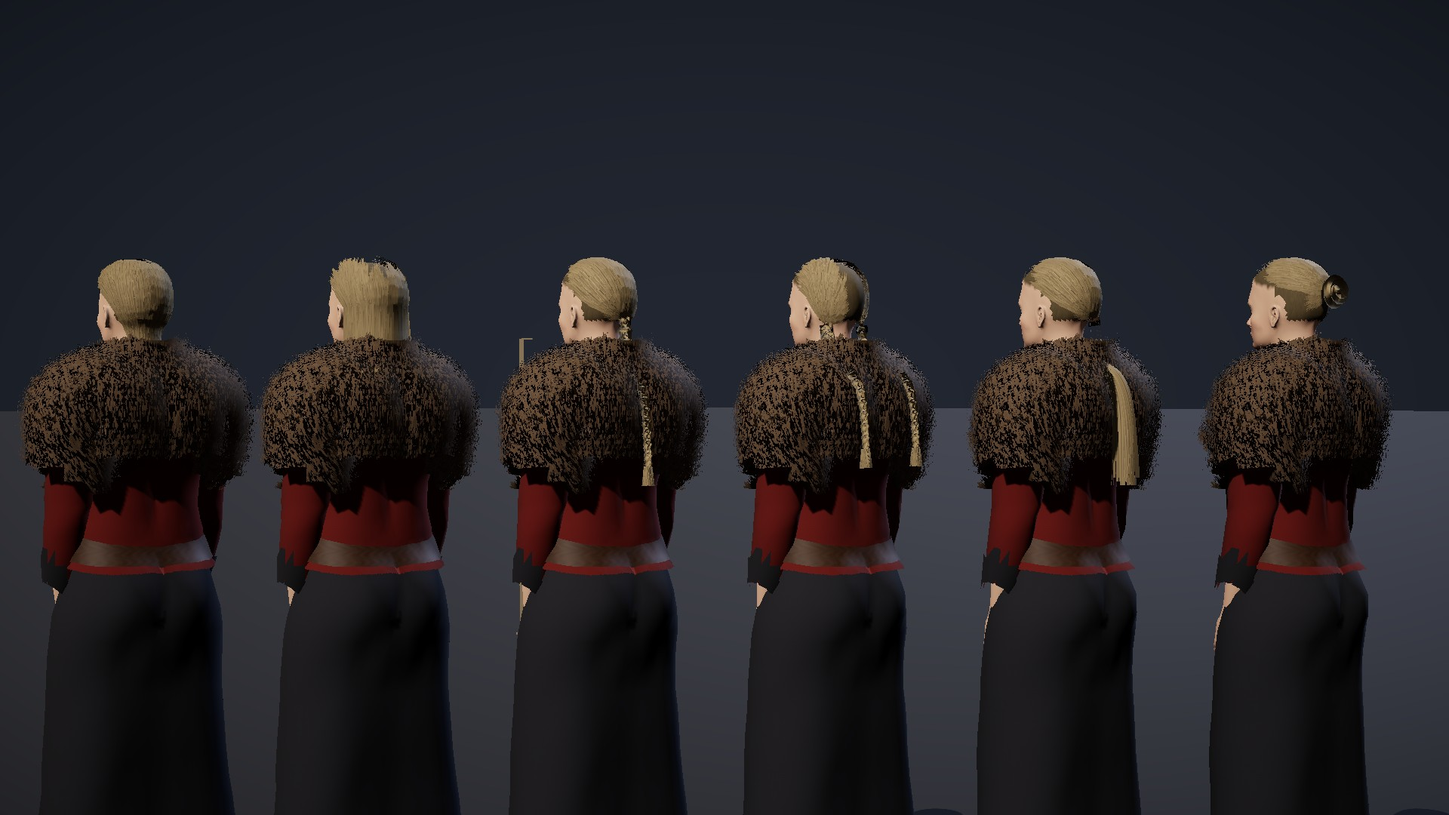
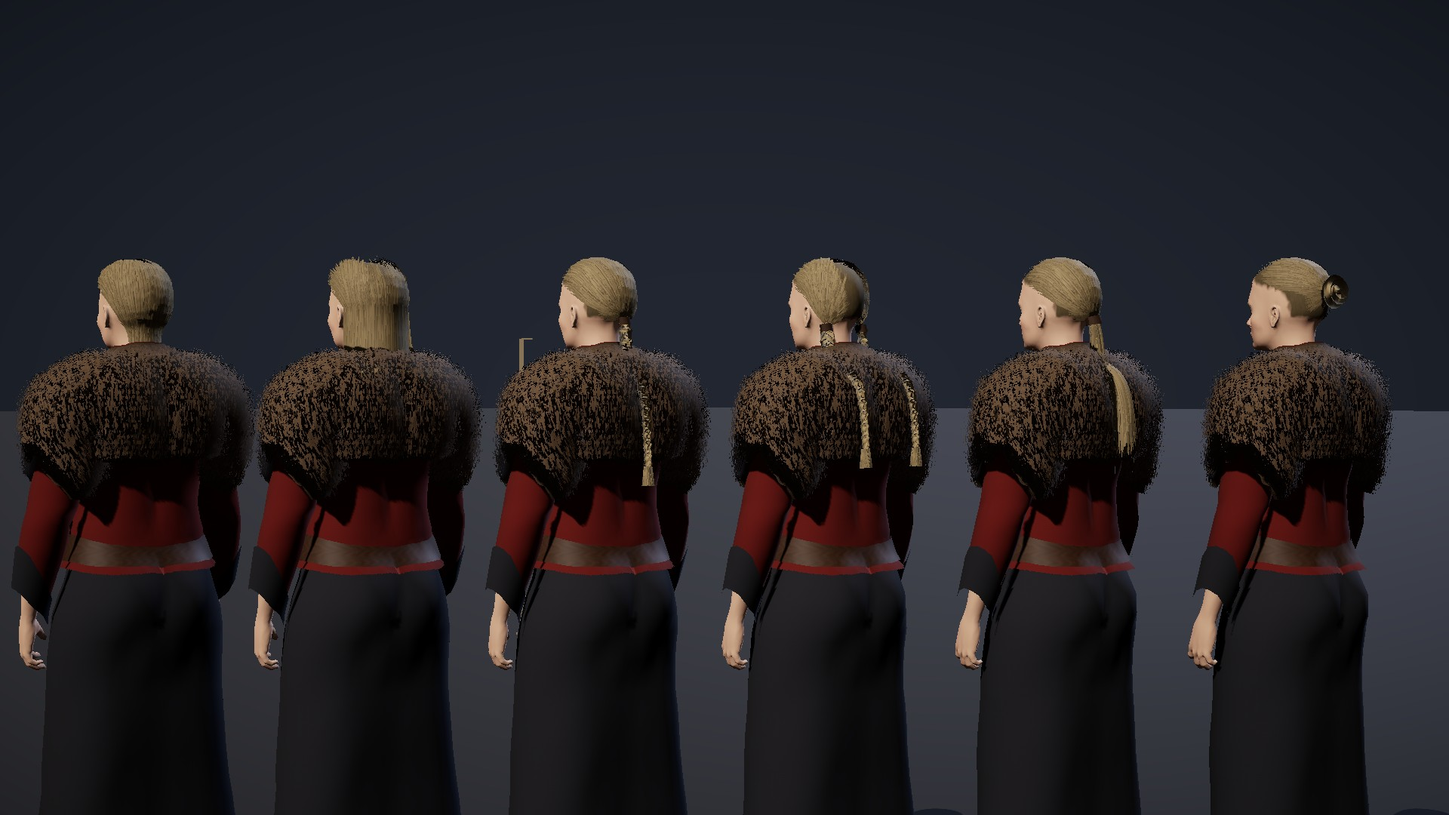
Bodies: Session 1203 — the fur mantle's edges, and the Mark women's pale furs (L1, OG-110; prototype only)
Claude-Session: https://claude.ai/code/session_01VbFMtUZrfAcRMHkeJGLocv

diff --git a/docs/prototypes/levelup/people.js b/docs/prototypes/levelup/people.js
@@ -30,7 +30,8 @@ export async function loadPack(base = 'mh/') {
     belt: sel(tri, (x, y) => y > .11 && y < .22 && Math.abs(x) < .2),
     // the wide sash belt (Session 1010, OG-056): the region runs past its cut (rest .085 to .225) so neither edge is a triangle's
     sashBelt: sel(tri, (x, y) => y > .055 && y < .255 && Math.abs(x) < .2),
-    mantle: sel(tri, (x, y, z) => y > .4 && y < .61 && Math.abs(x) < .26),
+    // the fur mantle (Session 1203): the region runs past its cut (MANTLE_CUT) on every side, so no edge is a triangle's
+    mantle: sel(tri, (x, y, z) => y > .366 && y < .635 && Math.abs(x) < .288),
     // the cuffs: a band 4 cm wide at the sleeve's end, cut in the shader (Session 889); the region is wider, so neither edge is a
     // triangle's, and it runs to .411, past the bare skin's own stepped edge (body triangles from .395), which showed as teeth beyond it
     cuffs: sel(tri, (x, y) => Math.abs(x) > .355 && Math.abs(x) < .425),
@@ -258,6 +259,16 @@ function cutDepth(o) {
     s.fragmentShader = 'varying vec3 vB;\n' + s.fragmentShader.replace('void main() {', 'void main() {\n' + CUT(o.cut) + (o.hole ? `if (${o.hole}) discard;` : '')); };
   m.customProgramCacheKey = () => 'cutDepth' + JSON.stringify(o.cut || 0) + (o.hole || ''); return m;
 }
+// a fur's own edge (Session 1203, the mantle): cut on the rest body along a hem lower at the back than at the front, a neckline and a
+// ring round each arm, each line broken by noise, the neckline lower on each shell outward (`slope`); within the fringe's width of a line the outer shells thin out, so the edge is a
+// slope of fur tips down to the solid shell and not a terrace of eleven cut layers. f: { front, back, top, x, w, rag, slope }
+const FRINGE = (f, solid) => ` { float fh = mix(${f.back.toFixed(3)}, ${f.front.toFixed(3)}, smoothstep(-.06, .06, vB.z)) + (nz(vB * vec3(55., 4., 55.)) - .5) * ${f.rag.toFixed(3)};
+        float fd = min(min(vB.y - fh, ${f.top.toFixed(3)} - L * ${f.slope.toFixed(3)} - vB.y), ${f.x.toFixed(3)} + (nz(vB * vec3(4., 55., 55.)) - .5) * ${f.rag.toFixed(3)} - abs(vB.x)); if (fd < 0.) discard;
+        ${solid ? '' : `keep *= step(L * .85 + .1 + (1. - smoothstep(0., ${f.w.toFixed(3)}, fd)) * .85 * L, strand);`} }`;
+export const MANTLE_CUT = { front: .415, back: .385, top: .61, x: .265, w: .022, rag: .018, slope: .025, fold: .55 };
+// the mantle's shells stand 3.6 cm off the tunic and 5.5 mm apart, and fold in toward the neck over its last 6 cm (rest y .55 to
+// the neckline), to two fifths of that, so its rim closes on the throat as a roll of fur, not a wall standing off it
+const mantlePush = k => (x, y) => { const t = Math.max(0, Math.min(1, (y - MANTLE_CUT.fold) / (MANTLE_CUT.top - MANTLE_CUT.fold))); return (.036 + k * .0055) * (1 - .6 * t * t); };
 // fur and hair: stacked shells, each cut by noise so strands rise from the surface
 function shellMat(color, layer, layers, o = {}) {
   const m = new THREE.MeshStandardMaterial({ color, roughness: .85, side: THREE.DoubleSide, alphaTest: .5 });
@@ -267,7 +278,7 @@ function shellMat(color, layer, layers, o = {}) {
     s.fragmentShader = 'varying vec3 vB; varying vec3 vRP;\nfloat hh(vec3 p){ p = fract(p * .3183099 + .1); p *= 17.; return fract(p.x * p.y * p.z * (p.x + p.y + p.z)); }\nfloat nz(vec3 x){ vec3 i = floor(x), f = fract(x); f = f * f * (3. - 2. * f); return mix(mix(mix(hh(i), hh(i + vec3(1,0,0)), f.x), mix(hh(i + vec3(0,1,0)), hh(i + vec3(1,1,0)), f.x), f.y), mix(mix(hh(i + vec3(0,0,1)), hh(i + vec3(1,0,1)), f.x), mix(hh(i + vec3(0,1,1)), hh(i + vec3(1,1,1)), f.x), f.y), f.z); }\n'
       + s.fragmentShader.replace('vec4 diffuseColor = vec4( diffuse, opacity );', `${CUT(o.cut)}${o.hole ? `if (${o.hole}) discard;` : ''}float hl = 1.; ${o.hairline ? 'if (vB.z > .05) { float e = vB.y - (.8 - .03 * pow(vB.x / .075, 2.) + (nz(vB * vec3(140., 60., 140.)) - .5) * .009); if (e < 0.) discard; hl = smoothstep(0., .014, e); }' : ''}${o.edge ? ' { float w = smoothstep(-.04, -.01, vB.z) * (1. - smoothstep(.04, .06, vB.z)), e = vE + (nz(vB * vec3(140., 60., 140.)) - .5) * .006; if (w > .5 && e < .0015) discard; hl = min(hl, mix(1., smoothstep(.0015, .014, e), w)); }' : ''} float L = ${(layer / layers).toFixed(3)};
         vec3 q = vRP * vec3(${o.sx ?? 380}., ${o.sy ?? 90}., ${o.sx ?? 380}.); float strand = nz(q) * .7 + nz(q * 2.3) * .3;
-        float keep = ${o.solid ? '1.' : 'step(L * .85 + .1, strand)'};
+        float keep = ${o.solid ? '1.' : 'step(L * .85 + .1, strand)'};${o.fringe ? FRINGE(o.fringe, o.solid) : ''}
         vec4 diffuseColor = vec4(diffuse * (.42 + .75 * L) * (.85 + .3 * strand), keep);${o.skin ? '\n        diffuseColor.rgb = mix(skinC, diffuseColor.rgb, hl);' : ''}`);
     // the hairline's fade (Session 875): from the skin's own colour at the edge to the shell's over 1.4 cm, so the roots read as a shadow
     if (o.skin) { s.uniforms.skinC = { value: o.skin }; s.fragmentShader = 'uniform vec3 skinC;\n' + s.fragmentShader; } };
@@ -2810,7 +2821,9 @@ export function makePerson(G, o = {}) {
   if (D.apron) { const lea = !!D.apronLeather, am = clothMat(sRGB(...D.apron), lea ? 'leather' : 'wool', { side: THREE.DoubleSide, cut: [lea ? -.52 : -.42, .175, .155, .004] });
     push('apron', PACK.R.apron, am, (x, y) => .03 + .012 * Math.max(0, Math.min(1, (.1 - y) / .4))); if (D.bib) push('bib', PACK.R.apronBib, clothMat(sRGB(...D.apron), lea ? 'leather' : 'wool', { side: THREE.DoubleSide, cut: [.1, .46, .105, .003] }), .04); }
   // a fur mantle over the shoulders: eleven shells
-  if (D.mantle) for (let k = 0; k < 11; k++) push('mantle' + k, PACK.R.mantle, shellMat(sRGB(...D.mantle), k, 11, { sx: 260, sy: 70, solid: k === 0 }), .036 + k * .0055);
+  // (Session 1203: its edges cut in the shader, MANTLE_CUT, and its shadow cut near the same lines)
+  if (D.mantle) { const md = cutDepth({ cut: [(MANTLE_CUT.front + MANTLE_CUT.back) / 2, MANTLE_CUT.top, MANTLE_CUT.x, .01] });
+    for (let k = 0; k < 11; k++) push('mantle' + k, PACK.R.mantle, shellMat(sRGB(...D.mantle), k, 11, { sx: 260, sy: 70, solid: k === 0, fringe: MANTLE_CUT }), mantlePush(k)).customDepthMaterial = md; }
   // hair: cards rooted on the hair shell (off the face), a layer of shell underneath so no scalp shows; brows; beard and moustache as short cards
   if (G.hairCol) { const scalp = PACK.R.scalpRoots;
     const sm = push('scalp', scalp, shellMat(sRGB(...G.hairCol).multiplyScalar(.55), 0, 3, { solid: true, hairline: true, edge: true, skin: sRGB(...G.skin) }), (x, y, z, i) => { const w = Math.max(0, Math.min(1, (z + .04) / .03)) * (1 - Math.max(0, Math.min(1, (z - .03) / .02))), k = 1 - w * (1 - Math.min(1, PACK.scalpEdge[i] / .012)); return .0008 + .0017 * k * k * (3 - 2 * k); });
@@ -2984,7 +2997,7 @@ export function makePerson(G, o = {}) {
 
 // palettes from OG-025: undyed wool, browns, slate blue, madder red; furs; ash-blond to red hair; pale to weathered skin
 const SKIN = [[.86, .70, .60], [.82, .64, .53], [.78, .60, .50], [.88, .74, .66]], HAIR = [[.70, .58, .40], [.52, .38, .24], [.62, .34, .18], [.80, .70, .52], [.40, .30, .20], [.86, .84, .80]];
-const WOOL = [[.32, .26, .2], [.24, .27, .32], [.30, .32, .26], [.20, .2, .22], [.45, .16, .12], [.18, .24, .3]], LEATHER = [[.3, .2, .13], [.22, .15, .1], [.36, .25, .16]], FUR = [[.42, .34, .26], [.3, .24, .18], [.55, .48, .4], [.25, .2, .17]];
+const WOOL = [[.32, .26, .2], [.24, .27, .32], [.30, .32, .26], [.20, .2, .22], [.45, .16, .12], [.18, .24, .3]], LEATHER = [[.3, .2, .13], [.22, .15, .1], [.36, .25, .16]], FUR = [[.42, .34, .26], [.3, .24, .18], [.55, .48, .4], [.25, .2, .17]], PALE_FUR = [[.9, .89, .86], [.87, .83, .74], [.78, .78, .77]];
 export function markGenome(rnd, g, o = {}) {
   const pick = a => a[Math.floor(rnd() * a.length)], pickW = W => { let r = rnd() * Object.values(W).reduce((a, b) => a + b, 0); for (const [k, w] of Object.entries(W)) if ((r -= w) < 0) return k; return Object.keys(W)[0]; };
   const old = o.age ?? .5 + rnd() * .15;
@@ -3032,7 +3045,7 @@ export const PEOPLES = {
     body: { m: { metres: [1.84, 1.98], muscle: [.66, .92], weight: [.48, .7] }, f: { metres: [1.72, 1.84], muscle: [.52, .7], weight: [.46, .64] } },
     skin: [[.92, .8, .74], [.9, .77, .7], [.88, .74, .66]], hair: [[.8, .72, .56], [.72, .64, .5], [.86, .8, .66], [.62, .54, .42]], eyes: [[.55, .6, .62], [.5, .56, .6], [.45, .55, .62]],
     styles: { m: { short: 5, braids: 2, tail: 2 }, f: { braids: 4, braid: 3, bun: 1 } },
-    wool: [[.32, .26, .2], [.24, .27, .32], [.3, .32, .26], [.2, .2, .22], [.45, .16, .12]], cloak: .3, fur: true, brooch: [.35, .35, .37], apron: [.15, .1], mantle: .8, cuffBands: .7, brow: { m: { thick: [.7, .95], arch: [.15, .35] }, f: { thick: [.45, .65], arch: [.35, .55] } } },
+    wool: [[.32, .26, .2], [.24, .27, .32], [.3, .32, .26], [.2, .2, .22], [.45, .16, .12]], cloak: .3, fur: true, brooch: [.35, .35, .37], apron: [.15, .1], mantle: .8, paleMantle: .4, cuffBands: .7, brow: { m: { thick: [.7, .95], arch: [.15, .35] }, f: { thick: [.45, .65], arch: [.35, .55] } } },
   aurennais: { name: 'Aurennais', race: { caucasian: [.3, .65], african: [.25, .7], asian: [0, .15] },
     body: { m: { metres: [1.74, 1.86], muscle: [.5, .66], weight: [.32, .46] }, f: { metres: [1.62, 1.74], muscle: [.42, .56], weight: [.34, .48] } },
     skin: [[.74, .56, .42], [.64, .46, .33], [.52, .36, .25], [.4, .27, .19], [.31, .21, .15]], hair: [[.1, .07, .06], [.16, .11, .08], [.22, .15, .1]], eyes: [[.3, .2, .12], [.22, .15, .1], [.35, .28, .16]],
@@ -3131,6 +3144,9 @@ export function peopleGenome(rnd, people, g, o = {}) {
     const sr = ro(), pk = a => a[Math.floor(ro() * a.length)]; if (!D.spear && !D.crossbow && !D.basket && sr < (G.people === 'oldblood' ? .5 : .3) + .15 * t + (G.pose?.stoop ? .1 : 0)) D.staff = G.people === 'oldblood' ? pk([[.2, .16, .13], [.3, .24, .19]]) : G.people === 'aurennais' ? pk([[.5, .4, .28], [.42, .32, .2]]) : pk([[.45, .33, .2], [.36, .26, .16], [.52, .42, .3]]); }
   // the Gatelanders' waistcoats (Session 1143, OG-109: "tunics, waistcoats"), on the men over a tunic where nothing else lies on the chest,
   // in the people's earth greens, browns and muted blue, or in brown leather on three in ten; from a stream of their own, so every other roll of a seed is as it was
+  // the Mark women's pale furs (Session 1203, OG-110: "a woman in a white fur mantle over blue"): of the women who wear the mantle,
+  // two in five wear it in white fox, cream ermine or snow hare; from a stream of their own, so every other roll of a seed is as it was
+  if (P.paleMantle && sx === 'f' && D.mantle) { const rp = seeded(String(o.seed ?? 'person') + '|paleMantle'); if (rp() < P.paleMantle) D.mantle = PALE_FUR[Math.floor(rp() * PALE_FUR.length)]; }
   if (P.waistcoat && sx === 'm') { const rw = seeded(String(o.seed ?? 'person') + '|waistcoat'); if (rw() < P.waistcoat) { const lea = rw() < .3; D.waistcoat = lea ? [.36, .24, .15] : [[.3, .36, .22], [.42, .3, .18], [.2, .3, .4], [.28, .26, .2]][Math.floor(rw() * 4)]; D.waistcoatLeather = lea; if (!waistcoatOn(D)) { D.waistcoat = null; D.waistcoatLeather = false; } } }
   // the Gatelanders' tartan (Session 1151; Michael's A on #445: "a note, on cloaks"): one cloak or shoulder cape in five woven in a sett,
   // one of three (a moss ground in dark green with a madder overcheck, a madder ground in dark blue, a brown ground in near-black with

diff --git a/docs/backlog.md b/docs/backlog.md
@@ -469,7 +469,7 @@ Michael marked all 96 images of the intake on the review page: 63 KEEP and 33 NO
 - **Proportions for people** (look builder, `32-people.js`; OG-012, OG-095; Michael's 1 B): the heroic hybrid, about 1.80 m, slightly longer legs and broader shoulders than naturalistic, so a figure reads at a distance and in a fight. Leave room for the short Old Blood and the tall Markmen on either side.
 - **The creator, with the four peoples** (interface; OG-050): a list of choices on the left, the portrait on the right, six builds (default, stout, lean, tall, young, mature), five silhouettes, a hair-and-beard strip. Its races become the four peoples, Old Blood included (§2.2).
 - **Children, the old and the hurt in towns** (look builder and systems; OG-081, OG-001, OG-065): child-scale people (the towns have only Finn), the elderly, scars and eyepatches, a veteran in a wheeled chair (Garrick), large and small builds. ~~**Scars and eyepatches**~~ — done, Session 1079 (bodies builder; `people.js` `scarSkin`, `G.scar`, `buildEyepatch`, `D.eyepatch`, `builder-hurt-*.jpg`: an old cut from over the brow across the eye to the cheek drawn in the skin's shader, paler, raised and stitched, a gap in the brow; a leather patch 5 by 3.8 cm spanning the socket 1.3 mm off the face on a cord looped over the far temple and the near ear, nothing through either; 1 man in 14 and 1 woman in 40 scarred, a quarter of them patched); ~~**Children**~~ — done, Session 1081 (bodies builder; MakeHuman's child targets in the pack, the age slider from 11, `rollGenome(seed, { people, child: true })`, `builder-children*.jpg`: 11 to 15 years old, 79 to 93 per cent of their people's stature, dressed as their people, nothing a grown body carries, cloaks cut to them; every hair style clear on a child of 11); ~~**The old**~~ — done, Session 1082 (bodies builder; `rollGenome(seed, { people, old: true })`, `pose.stoop`, `builder-old-*.jpg`: 64 to 90, the hair to white or iron grey, a stoop in the upper back on six in ten with the arms still plumb); ~~**The old's walking staff**~~ — done, Session 1085 (bodies builder; `people.js` `buildStaff`, `STAFFS`, `D.staff`, `D.staffMake`, `builder-staff-*.jpg`: in the right fist on the spear's grip, its foot on the ground, bent about a centimetre and true through the fist; a hazel staff with its root knob for the Gatelands, ash shod in iron for the Mark, olive with a bronze knob for Aurenne, and OG-042's and OG-065's tall staff carved in knotwork for the Old Blood; on 25 to 39 of sixty old, none of the grown or the children); ~~a grip that leans on the staff~~ — done, Session 1094 (`STAFF_ARM`: the forearm dropped 38° forward and down, the fist at the belt, 57 to 59 per cent up the body, the staff's foot 8 to 16 cm ahead of the toes; `builder-staff-*.jpg`); ~~the wheeled chair~~ — done, Session 1106 (bodies builder; `people.js` `buildChair`, `SEAT`, `D.chair`, `builder-chair-*.jpg`: Garrick seated, the thighs level and the shins sloped to a footboard, the forearms laid on the chair's arms with the palms turned down over their ends; an oak armchair built to the seated body, 7,700 tris, on two iron-tyred cart wheels 62 cm across and two small ones under the front legs, push handles behind; nothing that hangs to the ground is worn in it, and it is never rolled); ~~his black wolfhound~~ — done, Session 1107 (`creatures.js` `wolfhound`, `HOUNDS`, `creatures-hounds.jpg`: the kit's first dog, a rough-coated sighthound on the wolf's parts, 81 cm at the top of the legs against the grey wolf's 74, deep in the chest and tucked up in the loin, a long narrow head with its ears folded back, 33 bones, 40,164 tris); ~~the crossbow across his knees~~ — done, Session 1116 (`people.js` `buildLapCrossbow`, `builder-chair-crossbow*.jpg`: OG-065's long gun as the crossbow the catalogue asks for, laid level across the thighs over the knees, the bolt's face up, the butt to his right and the prod out past the left wheel, let down to 2 mm off the thighs and moved forward until nothing of it is in the chair or a hand; a crossbow asked with the chair now lies there instead of being dropped); ~~the hound sitting by the chair~~ — done, Session 1114 (`creatures.js` `GAITS.sit`, `sitBody`, `sitLeg`, `creatures-wolfhound-sit*.jpg`: a sit for any four-legged plan, the body pitched up about the shoulders until the haunch and shins are 5 mm off the ground, 52° on the hound, the forefeet where it stands, the hind legs folded with the hocks back and the toes 21 cm ahead of the hips, the tail laid back along the ground and curled round; on the wolfhound, and since Session 1115 on every plan built on the Ironwolf's, the red fox's or the Hollowcat's parts, eleven in all, each tail lifted only as far as its flesh needs); ~~the hound lying down~~ — done, Session 1117 (`GAITS.lie`, `lieLeg`, `creatures-wolfhound-lie*.jpg`: a sphinx's lie, lowered level until the belly and haunch are 5 mm off the ground, the withers from 81 to 24 cm, the forelegs laid forward from the elbow 12 cm ahead of where it stands, the hind legs folded as they sit, the head up); ~~the lie on the other sitters~~ — done, Session 1122 (all eleven plans lie, `creatures-lying.jpg`: the forearm left out of the drop's search and raised by its own, `C.sitF`, so the foxes' and cats' bodies come down to 5 mm and their forearms clear the ground); ~~the hound beside Garrick's chair in one picture~~ — done, Session 1123 (the builder's `with=PLAN` stage, `builder-chair-hound*.jpg`: the wolfhound lying 8 cm off his right wheel, its nose level with the footboard, or sitting 35 cm back, turning with him); ~~the lying head held up~~ — done, Session 1124 (`SIT.lieNeck`: the neck raised 0.3 rad along its bones and the head turned back level, 1 to 5 cm higher on all eleven); ~~the cats sit with their forefeet together~~ — done, Session 1126 (`sitTuck`, `creatures-cats-sit.jpg`, `creatures-hollowcat-sit-front.jpg`: the Hollowcat and both lynxes keep 30% of their forefeet's standing width, 1.5 cm off the middle against 5.0); ~~the cats' tail wrapped round~~ — done, Session 1130; owed: children under 11 (MakeHuman's baby targets), a walk that leans on the staff, the chair pushed (B4), and the game (after F4).
-- **The wardrobe matrix** (look builder, the builder's B2, `docs/design/character-builder.md`; OG-109, OG-110, OG-111): for each island, men's and women's workwear, everyday, formal, travel and winter dress, by class (commoner, merchant, noble, warrior, clergy, scholar), and children's clothes as small copies of their parents'. The Gatelands in wool, linen and leather, earth greens and muted blue, laced bodices, hooded cloaks, tartans a new note; the Mark in heavy wool with fur trims and woven bands; Aurenne in linen, cotton and silk, sashes, turbans and head scarves in saffron, red and teal. OG-110's half-length pairs and its swatches (weave, fur, leather, ironwork clasps) are the close-up reference for the cloth. The canon wins where the sheets drift: the Mark's soldiers in black and iron, and its “runic tattoos” are the gates' marks under the skin (§3.1), not ink. **The Gatelanders' waistcoat, Session 1143** (bodies builder; `people.js` `D.waistcoat`, `waistcoatLeather`, `buildButtons`, `builder-waistcoat-*.jpg`): OG-109's "tunics, waistcoats", a man's sleeveless piece over the tunic in earth green, brown, muted blue or a dark drab, or brown leather on three in ten, a V at the neck and six buttons down the closed front, ending under the belt; on 35% of Gatelander men from a stream of its own; the lapped front's edge drawn as its shadow, Session 1144 (`WAISTCOAT_EDGE`, `clothMat`'s `shade`); owed: the game (after F4), and the rest of the matrix (formal, travel and winter dress by class). **The Gatelanders' tartan, Session 1146** (bodies builder; `people.js` `TARTAN`, `D.tartan`, `D.tartanLine`, `builder-tartan-*.jpg`): OG-111's "tartans", a symmetric sett 16.8 cm across (the cloak's colour as the ground, two dark bands side by side, a fine overcheck) woven in a 2/2 twill on 1.5 mm threads in the shader. It is laid round the wearer from the back's middle, on the cloak, the cape and the hood up or down. Rolled on no one until Michael answers where it goes (DECISION #445); owed: that answer, the roll, and the game (after F4). **The Gatelanders' winter coat, Session 1147** (bodies builder; `people.js` `D.coat`, `D.coatFur`, `coatLen`, `coatOn`, `coatStats`, `builder-coat-*.jpg`): OG-109's winter column, "fur-lined winter coats": a wool coat over the tunic, sleeves to the wrist, a skirt flaring to mid-calf (`coatLen` .75; 0 a jacket, 1 the ankle), the right front lapped over the left and belted over; a fur trim at the collar, down the lapping edge, round the cuffs and the hem, seven shells cut from the regions they cover. It takes the place of the cloak, mantle, apron, sash, shoulder wrap, waistcoat and bodice, and gives way to a robe, mail, a tabard or the chair. Rolled on no one: who wears it, and when, is the season's (the game's) to say; owed: the Mark's fur-lined hooded coat, and the game (after F4). **The Gatelanders' tartan, Sessions 1146 and 1151** (bodies builder; `people.js` `TARTAN`, `D.tartan`, `tartanLine`, `PEOPLES.gatelander.setts`, `builder-tartan-*.jpg`): a sett woven into the cloak, the cape and the hood; Michael's A on #445, a note on cloaks: one Gatelander cloak or cape in five, in one of three setts, nobody else. Owed: the game after F4. **The Mark's fur-lined hooded coat, Session 1152** (bodies builder; `people.js` `D.coatHood`, `hoodUpOn`, `buildHoodUp`'s `clr` and `fur`, `builder-coathood-*.jpg`): OG-109's Mark column, the winter coat's hood up in its wool with a fur ruff round the face (seven shells, 11.8 to 13.1k triangles; ~~its cost~~ — Session 1165: 4.9 to 5.5k, the triangles its shader discards whole left out). The hood down, Session 1153 (`buildCoatHoodDown`, `rollAt`, `builder-coathood-down-*.jpg`): a roll of the coat's wool across the upper back, 768 triangles, the hair set out over it. Owed: the game after F4. **The Mark's formal dress, its woven bands, Session 1156** (bodies builder; `people.js` `D.bands`, `D.bandsMotif`, `LOZ`, `builder-bands-*.jpg`): OG-109's Mark formal column, "blue and red, with woven bands": a tablet-woven band in the shader at the tunic's neck, round both cuffs (built in the tunic's colour where there were none) and 4 cm up the skirt's hem, short or long; a ground with a thread of the motif at each edge and a row of lozenges, stepped to the threads. None under a coat or a robe. Rolled on no one: who dresses formally, and when, is the game's (rank, a feast) to say. ~~A long gown's band fitted to its own ragged cut~~ — done, Session 1163 (`lozHemY`, a table of 48 heights round the body; `builder-bands-hem*.jpg`). ~~The formal tunic worn longer~~ — done, Session 1164 (`skirt: 'knee'`, the long skirt's shell cut at rest -.345, at the kneecap, the band on its hem; `builder-knee-*.jpg`). Owed: the women's mantle over the gown, and the game after F4.
+- **The wardrobe matrix** (look builder, the builder's B2, `docs/design/character-builder.md`; OG-109, OG-110, OG-111): for each island, men's and women's workwear, everyday, formal, travel and winter dress, by class (commoner, merchant, noble, warrior, clergy, scholar), and children's clothes as small copies of their parents'. The Gatelands in wool, linen and leather, earth greens and muted blue, laced bodices, hooded cloaks, tartans a new note; the Mark in heavy wool with fur trims and woven bands; Aurenne in linen, cotton and silk, sashes, turbans and head scarves in saffron, red and teal. OG-110's half-length pairs and its swatches (weave, fur, leather, ironwork clasps) are the close-up reference for the cloth. The canon wins where the sheets drift: the Mark's soldiers in black and iron, and its “runic tattoos” are the gates' marks under the skin (§3.1), not ink. **The Gatelanders' waistcoat, Session 1143** (bodies builder; `people.js` `D.waistcoat`, `waistcoatLeather`, `buildButtons`, `builder-waistcoat-*.jpg`): OG-109's "tunics, waistcoats", a man's sleeveless piece over the tunic in earth green, brown, muted blue or a dark drab, or brown leather on three in ten, a V at the neck and six buttons down the closed front, ending under the belt; on 35% of Gatelander men from a stream of its own; the lapped front's edge drawn as its shadow, Session 1144 (`WAISTCOAT_EDGE`, `clothMat`'s `shade`); owed: the game (after F4), and the rest of the matrix (formal, travel and winter dress by class). **The Gatelanders' tartan, Session 1146** (bodies builder; `people.js` `TARTAN`, `D.tartan`, `D.tartanLine`, `builder-tartan-*.jpg`): OG-111's "tartans", a symmetric sett 16.8 cm across (the cloak's colour as the ground, two dark bands side by side, a fine overcheck) woven in a 2/2 twill on 1.5 mm threads in the shader. It is laid round the wearer from the back's middle, on the cloak, the cape and the hood up or down. Rolled on no one until Michael answers where it goes (DECISION #445); owed: that answer, the roll, and the game (after F4). **The Gatelanders' winter coat, Session 1147** (bodies builder; `people.js` `D.coat`, `D.coatFur`, `coatLen`, `coatOn`, `coatStats`, `builder-coat-*.jpg`): OG-109's winter column, "fur-lined winter coats": a wool coat over the tunic, sleeves to the wrist, a skirt flaring to mid-calf (`coatLen` .75; 0 a jacket, 1 the ankle), the right front lapped over the left and belted over; a fur trim at the collar, down the lapping edge, round the cuffs and the hem, seven shells cut from the regions they cover. It takes the place of the cloak, mantle, apron, sash, shoulder wrap, waistcoat and bodice, and gives way to a robe, mail, a tabard or the chair. Rolled on no one: who wears it, and when, is the season's (the game's) to say; owed: the Mark's fur-lined hooded coat, and the game (after F4). **The Gatelanders' tartan, Sessions 1146 and 1151** (bodies builder; `people.js` `TARTAN`, `D.tartan`, `tartanLine`, `PEOPLES.gatelander.setts`, `builder-tartan-*.jpg`): a sett woven into the cloak, the cape and the hood; Michael's A on #445, a note on cloaks: one Gatelander cloak or cape in five, in one of three setts, nobody else. Owed: the game after F4. **The Mark's fur-lined hooded coat, Session 1152** (bodies builder; `people.js` `D.coatHood`, `hoodUpOn`, `buildHoodUp`'s `clr` and `fur`, `builder-coathood-*.jpg`): OG-109's Mark column, the winter coat's hood up in its wool with a fur ruff round the face (seven shells, 11.8 to 13.1k triangles; ~~its cost~~ — Session 1165: 4.9 to 5.5k, the triangles its shader discards whole left out). The hood down, Session 1153 (`buildCoatHoodDown`, `rollAt`, `builder-coathood-down-*.jpg`): a roll of the coat's wool across the upper back, 768 triangles, the hair set out over it. Owed: the game after F4. **The Mark's formal dress, its woven bands, Session 1156** (bodies builder; `people.js` `D.bands`, `D.bandsMotif`, `LOZ`, `builder-bands-*.jpg`): OG-109's Mark formal column, "blue and red, with woven bands": a tablet-woven band in the shader at the tunic's neck, round both cuffs (built in the tunic's colour where there were none) and 4 cm up the skirt's hem, short or long; a ground with a thread of the motif at each edge and a row of lozenges, stepped to the threads. None under a coat or a robe. Rolled on no one: who dresses formally, and when, is the game's (rank, a feast) to say. ~~A long gown's band fitted to its own ragged cut~~ — done, Session 1163 (`lozHemY`, a table of 48 heights round the body; `builder-bands-hem*.jpg`). ~~The formal tunic worn longer~~ — done, Session 1164 (`skirt: 'knee'`, the long skirt's shell cut at rest -.345, at the kneecap, the band on its hem; `builder-knee-*.jpg`). ~~The women's mantle over the gown~~ — done, Session 1203 (OG-110's Mark woman in white fur over blue: two in five of the Mark women's fur mantles in white fox, cream ermine or snow hare, `PALE_FUR`, from a stream of their own; and every mantle's hem, neckline and arm edges cut in the shader, `MANTLE_CUT`, the outer shells thinning to the edge and the collar folding in on the throat; `builder-mantle-*.jpg`). Owed: the game after F4.
 
 ### L2. Named people (quest writer for the words, look builder for the faces)
 - **Act I's faces** (OG-069 for the turnarounds, OG-057 for the props and secrets, OG-001 for the gallery): Bram grey at the forge (canon's thirty years), Edna, Corwin, Niamh and Áine as Gatelanders. Corwin's people is never said (Michael's 11 C).

diff --git a/docs/devlog/1203.md b/docs/devlog/1203.md
@@ -1,0 +1,51 @@
+## v80 — Session 1203 — the fur mantle's edges, and the Mark women's pale furs (L1, OG-110; prototype only)
+FREEZE #492 (card F4) is open, so this run stays in the prototypes. Backlog L1's wardrobe matrix had one item still owed from the
+Mark's formal column: "the women's mantle over the gown", OG-110's Mark woman "in a white fur mantle over blue". The kit already has
+the Markmen's fur mantle (Session 770, eleven shells over the shoulders), and in shape that is OG-110's mantle. What it lacked was the
+white fur. On a Mark woman in a blue gown it also showed two faults it had always had, and white fur shows them more than brown:
+- **The hem was stepped.** The mantle was the tights' triangles between rest y .40 and .61, so its lower edge was the triangles' own
+  edges. Eleven shells cut on the same jagged line read as square teeth at the front and a sawn edge round the back
+  (`builder-mantle-woman-before.jpg`).
+- **The collar was a terrace.** Every shell stood off the tunic 3.6 cm and more, right up to the neckline. Looking down at the throat
+  you saw the solid shell as a smooth wall 3.6 cm off the neck, with the cut tops of the other ten stacked outside it in rings
+  (`builder-mantle-collar-before.jpg`).
+
+What changed, in `people.js`:
+- **The edges are cut in the shader (`MANTLE_CUT`, `FRINGE`).** The region now runs past every cut (rest y .366 to .635, |x| under .288).
+  Each shell discards on the rest body (aBase), below a hem that runs lower at the back than the front (.385 behind, .415 in front,
+  blended across the side), above the neckline, and past a ring round each upper arm (|x| .265). Each line is broken by noise, 1.8 cm
+  deep. Within 2.2 cm of a line the outer shells thin out (each shell's strand threshold rises with its layer), so an edge is a slope
+  of fur tips down to the solid shell, not eleven cut layers. The neckline also drops 2.5 mm a shell outward (`slope`).
+- **The collar folds in (`mantlePush`).** Over its last 6 cm (rest y .55 to .61) the shells' stand-off drops to two fifths, so the rim
+  closes on the throat as a roll of fur. On the chest the solid shell still stands 2.3 cm over the tunic; at the neckline it stands
+  0.4 cm over it, still outside.
+- **The shadow is cut too.** All eleven shells share one `cutDepth` on the mean hem, the neckline and the arms, so the wider region
+  casts no wider shadow.
+- **The pale furs (`PALE_FUR`, `PEOPLES.markman.paleMantle` .4).** Of the Mark women who roll the mantle (eight in ten), two in five
+  wear it in white fox, cream ermine or snow hare. The roll comes from a stream of its own (`seed|paleMantle`), so every other roll of
+  every seed is as it was. Men and the other peoples keep their browns. Nothing new is chosen here (the white mantle is OG-110's, which
+  Michael kept), so it asks nothing.
+
+Cost: the mantle is 15,752 triangles in 11 draws on the test woman, against 12,364. The 3,388 extra triangles (27%) are the margin the
+cut needs below the hem and round the arms; the shader discards them. The draws are unchanged.
+
+### Verified (headless Chromium)
+- **`node docs/prototypes/levelup/builder.check.mjs`:** 519 of 519 pass (about 13 minutes), five of them new:
+  - all eleven shells carry the fringe and share one cut depth;
+  - the region runs past every cut: rest y .353 against the hem's lowest .376, .617 against the neckline's .61, |x| .299 against the
+    arms' .274;
+  - the fold: the solid shell is 2.3 cm over the tunic on the chest, 0.4 cm at the neckline and the outer shell 3.1 cm;
+  - the roll: 21 of 69 Mark women's mantles are pale, 0 of 72 men's and 0 of 90 other peoples' women; a pale mantle saves and loads
+    back the same;
+  - no page errors.
+  The hair checks that build every style with and without the mantle (the braids' and tails' clearance) pass on the new collar.
+- **Pictures** (`builder.check.mjs --shots=mantle`): `builder-mantle-woman.jpg` (a Mark woman in white fox over a blue gown),
+  `builder-mantle-back.jpg`, `builder-mantle-collar.jpg` (the collar close, against `builder-mantle-collar-before.jpg`),
+  `builder-mantle-nape.jpg` and `builder-mantle-man.jpg` (a Markman's brown mantle on the same edges). The same run re-shot
+  `builder-styles-mantle.jpg` and `builder-woman-loose-mantle.jpg` on the new collar. The two `-before` pictures were
+  shot from the previous build of `people.js`.
+### Needs eyes
+- **The braids at the nape.** The collar closes on the neck now, so a braid that falls from the nape goes into the fur at the top of
+  the mantle and comes out lower on the back. Before, it went into a 3.6 cm gap. The hair checks pass, but from close behind it reads
+  as tucked in, and whether that looks right is a call for the eye.
+- **Owed:** the game, after F4.
